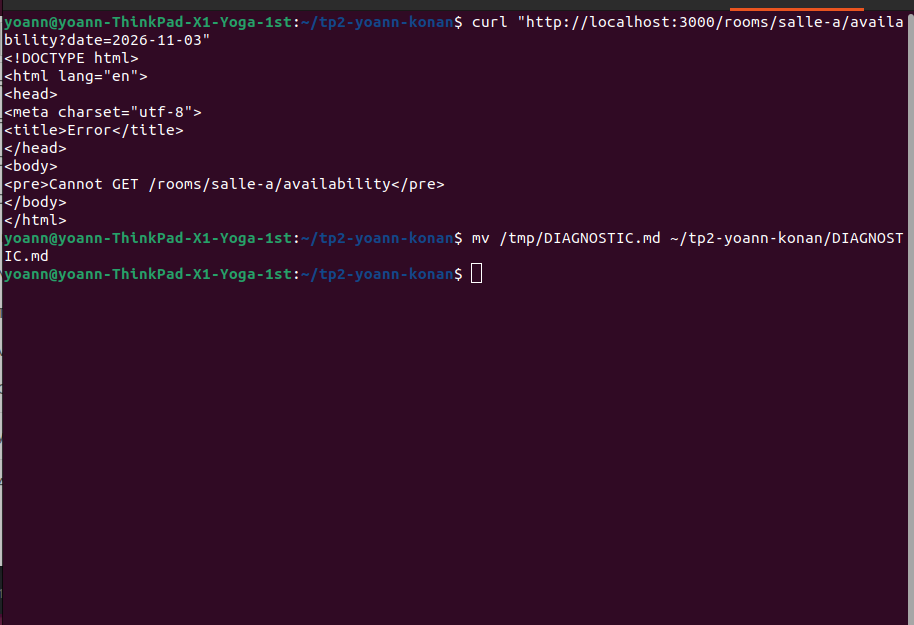
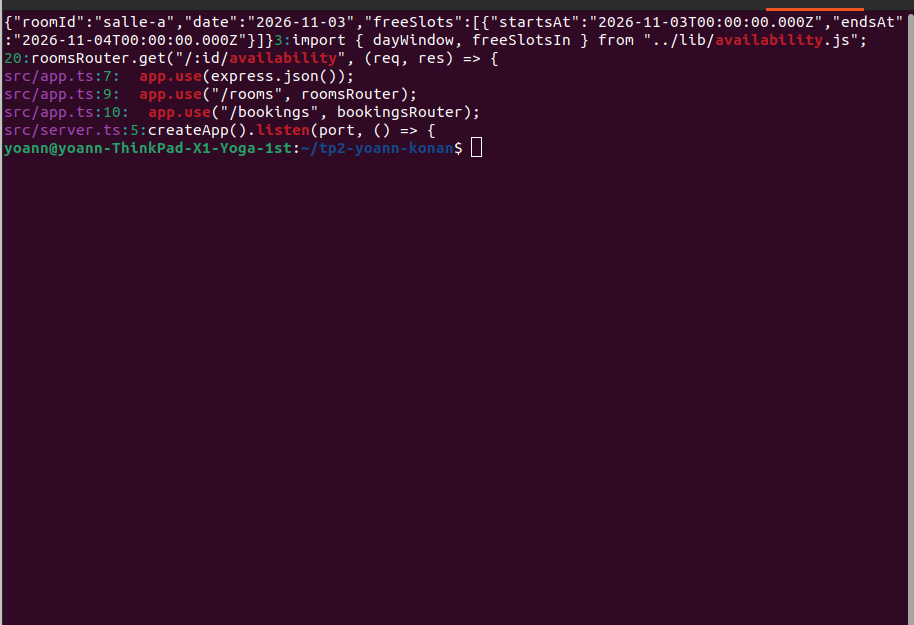
Après : endpoint vérifié sur serveur redémarré, tableau complété

Changed region(s): [[0.0, 0.0, 1.0, 0.456], [0.0, 0.912, 0.0306, 1.0]]

diff --git a/DIAGNOSTIC.md b/DIAGNOSTIC.md
@@ -1,3 +1,4 @@
+
 # DIAGNOSTIC — salles-api
 
 Binôme : Yoann Konan, <nom2>
@@ -153,12 +154,14 @@ Tâche donnée telle quelle : « Ajoute un endpoint GET /rooms/:id/availability?
 
 Protocole : session OpenCode neuve ; `DIAGNOSTIC.md` et les notes de l'agent sortis du dossier pendant la relance pour qu'il ne puisse pas s'en servir ; même tâche mot pour mot ; même réponse neutre aux questions.
 
+
+
 | | Avant | Après |
 |---|---|---|
-| Qui travaille | l'agent principal seul | <ex. architect → planner → dev → reviewer> |
-| Relecture | aucune | <conclusion du reviewer> |
-| Hook post-écriture | jamais vu | <affiché ou non> |
-| Tests exécutés | 3 fichiers sur 5, 4 ignorés | <résultat de npm run test:unit> |
-| Endpoint | <réponse du curl avant> | <réponse du curl après> |
+| Qui travaille | l'agent principal seul (subagents « Model not found ») | la chaîne : au minimum le planner (plan écrit dans `.opencode/plans/rooms-availability.md`), <autres agents vus> |
+| Relecture | aucune | <conclusion du reviewer, ou « non observée »> |
+| Hook | pre-commit jamais exécuté | pre-commit husky exécuté à chaque commit (typecheck + lint + tests) |
+| Tests exécutés | 3 fichiers sur 5, 4 tests ignorés, 2 bugs cachés | 5 fichiers sur 5, 30 réussis, 1 ignoré volontairement (fixture absente, INFRA-198) |
+| Endpoint | répond, écrit par l'agent principal seul, sans relecture | `{"roomId":"salle-a","date":"2026-11-03","freeSlots":[{"startsAt":"2026-11-03T00:00:00.000Z","endsAt":"2026-11-04T00:00:00.000Z"}]}` |
 
-Captures : `ex1-*.png` (avant), `apres-01-delegations.png`, `apres-02-hook.png`, `apres-03-reviewer.png`, `apres-04-filet.png`, `apres-05-curl.png` (après).
+Note : un premier `curl` a renvoyé « Cannot GET » parce qu'un serveur démarré avant la relance tournait encore avec l'ancien code ; après arrêt (`fuser -k 3000/tcp`) et redémarrage, l'endpoint répond.
